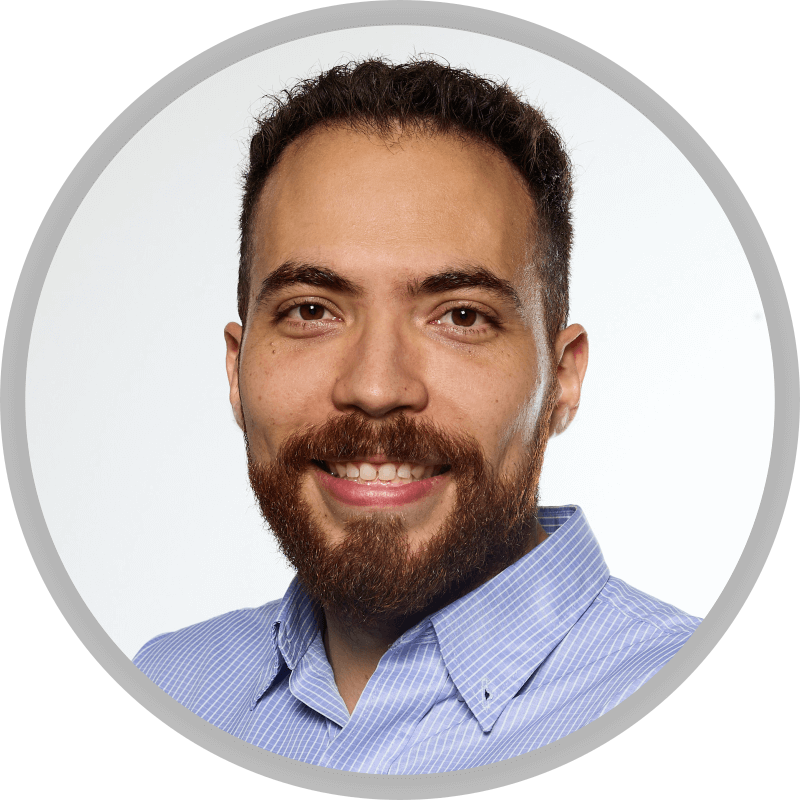
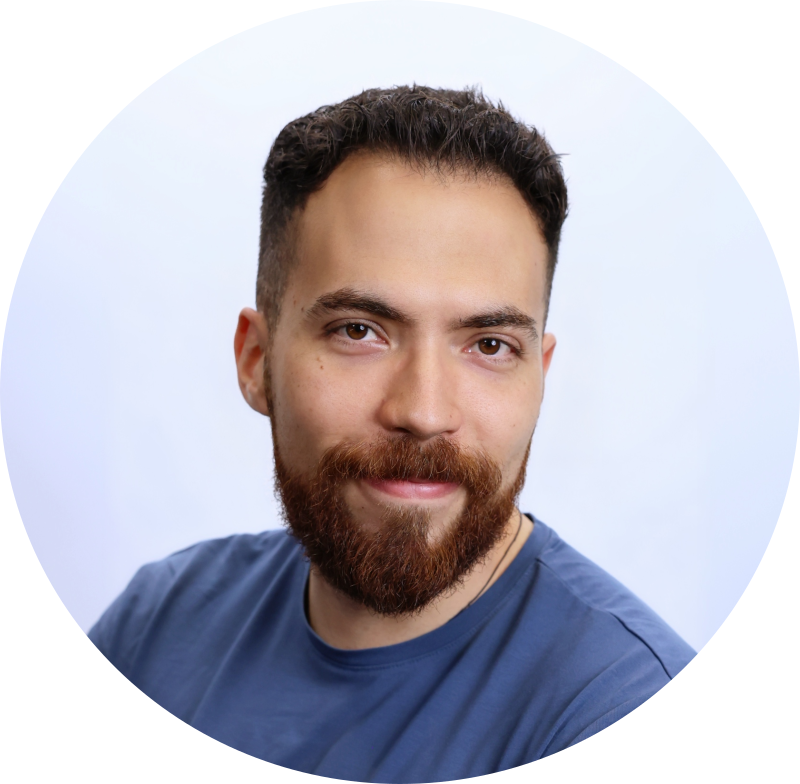
Changing picture, adding publication

diff --git a/docs/index.html b/docs/index.html
@@ -111,9 +111,16 @@
 									
 									<div class="features">
 										<article>
+											<a href="" class="image"><img src="images/miccai2023.png" alt="" /></a>
+											<div class="inner">
+												<a href="" ><h4>Localized Questions in Medical Visual Question Answering <i class="fas fa-link"></i></h4></a> <h5>MICCAI 2023 [Accepted] </h5>
+												<p>We introduce a method to ask questions about user-defined regions in an image as opposed to questions about the entire image. </p>
+											</div>
+										</article>
+										<article>
 											<a href="https://sergiotasconmorales.github.io/conferences/cvpr2023.html" class="image"><img src="images/cvpr2023.png" alt="" /></a>
 											<div class="inner">
-												<a href="https://sergiotasconmorales.github.io/conferences/cvpr2023.html" ><h4>Logical Implications for Visual Question Answering Consistency <i class="fas fa-link"></i></h4></a> <h5>CVPR 2023 [Accepted] </h5>
+												<a href="https://sergiotasconmorales.github.io/conferences/cvpr2023.html" ><h4>Logical Implications for Visual Question Answering Consistency <i class="fas fa-link"></i></h4></a> <h5>CVPR 2023</h5>
 												<p>A method to improve consistency in VQA by integrating logical relations between pairs of question-answers into the tratining process. </p>
 											</div>
 										</article>
